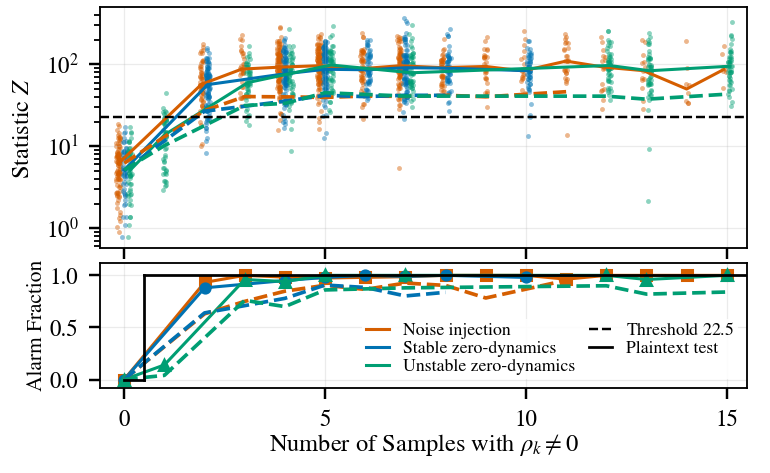
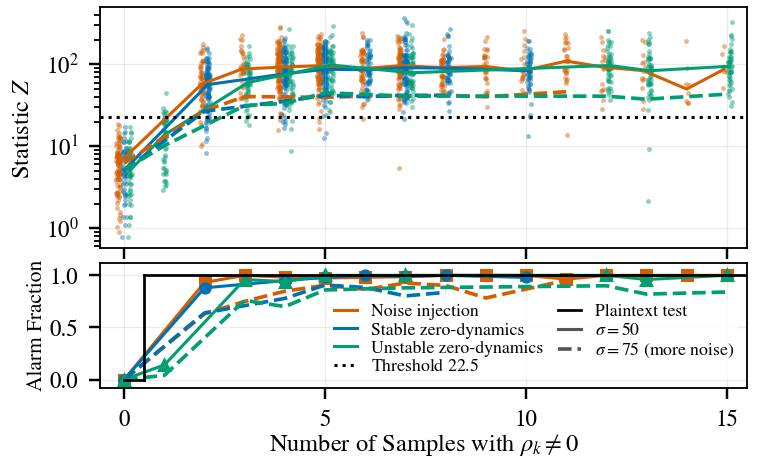
Comparison figure: legend and dotted threshold

Changed region(s): [[0.4364, 0.6512, 0.9662, 0.7992], [0.1247, 0.2368, 0.9662, 0.2664]]

diff --git a/four_tank/compare_fig_columns.py b/four_tank/compare_fig_columns.py
@@ -74,13 +74,15 @@ for kind, col in (("stable", "#0072b2"), ("unstable", "#009e73")):
     ns = sorted(n for n in d if n <= XMAX)
     ax[0].plot(ns, [np.median(d[n]) for n in ns], color=col, ls="--", lw=1.2)
     ax[1].plot(ns, [np.mean(np.array(d[n]) > thr) for n in ns], color=col, ls="--", lw=1.2)
-ax[0].axhline(thr, color="k", ls="--", lw=0.8, label=r"Threshold $22.5$")
+ax[0].axhline(thr, color="k", ls=":", lw=1.0, label=r"Threshold $22.5$")
 ax[0].set_yscale("log"); ax[0].set_ylabel(r"Statistic $Z$")
 ax[1].plot([0, 0.5], [0, 0], color="k", lw=0.9); ax[1].plot([0.5, 0.5], [0, 1], color="k", lw=0.9)
 ax[1].plot([0.5, XMAX + 5], [1, 1], color="k", lw=0.9, label="Plaintext test")
 ax[1].set_ylim(-0.08, 1.12); ax[1].set_yticks([0, 0.5, 1]); ax[1].set_ylabel("Alarm Fraction", fontsize=7, labelpad=1)
 h0, l0 = ax[0].get_legend_handles_labels(); h1, l1 = ax[1].get_legend_handles_labels()
-ax[1].legend(h0 + h1, l0 + l1, loc="lower right", ncol=2, framealpha=0.9, borderpad=0.2, labelspacing=0.1, columnspacing=0.8,
+from matplotlib.lines import Line2D
+extra = [Line2D([0], [0], color="#555555", lw=1.0, label=r"$\sigma=50$"), Line2D([0], [0], color="#555555", lw=1.2, ls="--", label=r"$\sigma=75$ (more noise)")]
+ax[1].legend(h0 + h1 + extra, l0 + l1 + [e.get_label() for e in extra], loc="lower right", ncol=2, framealpha=0.9, borderpad=0.2, labelspacing=0.1, columnspacing=0.8,
              handlelength=1.3, edgecolor="none")
 ax[1].set_xlim(-0.6, XMAX + 0.5); ax[1].set_xticks(np.arange(0, XMAX + 1, 5))
 ax[1].set_xlabel("Number of Samples with $\\rho_k\\neq0$", labelpad=0.5)
